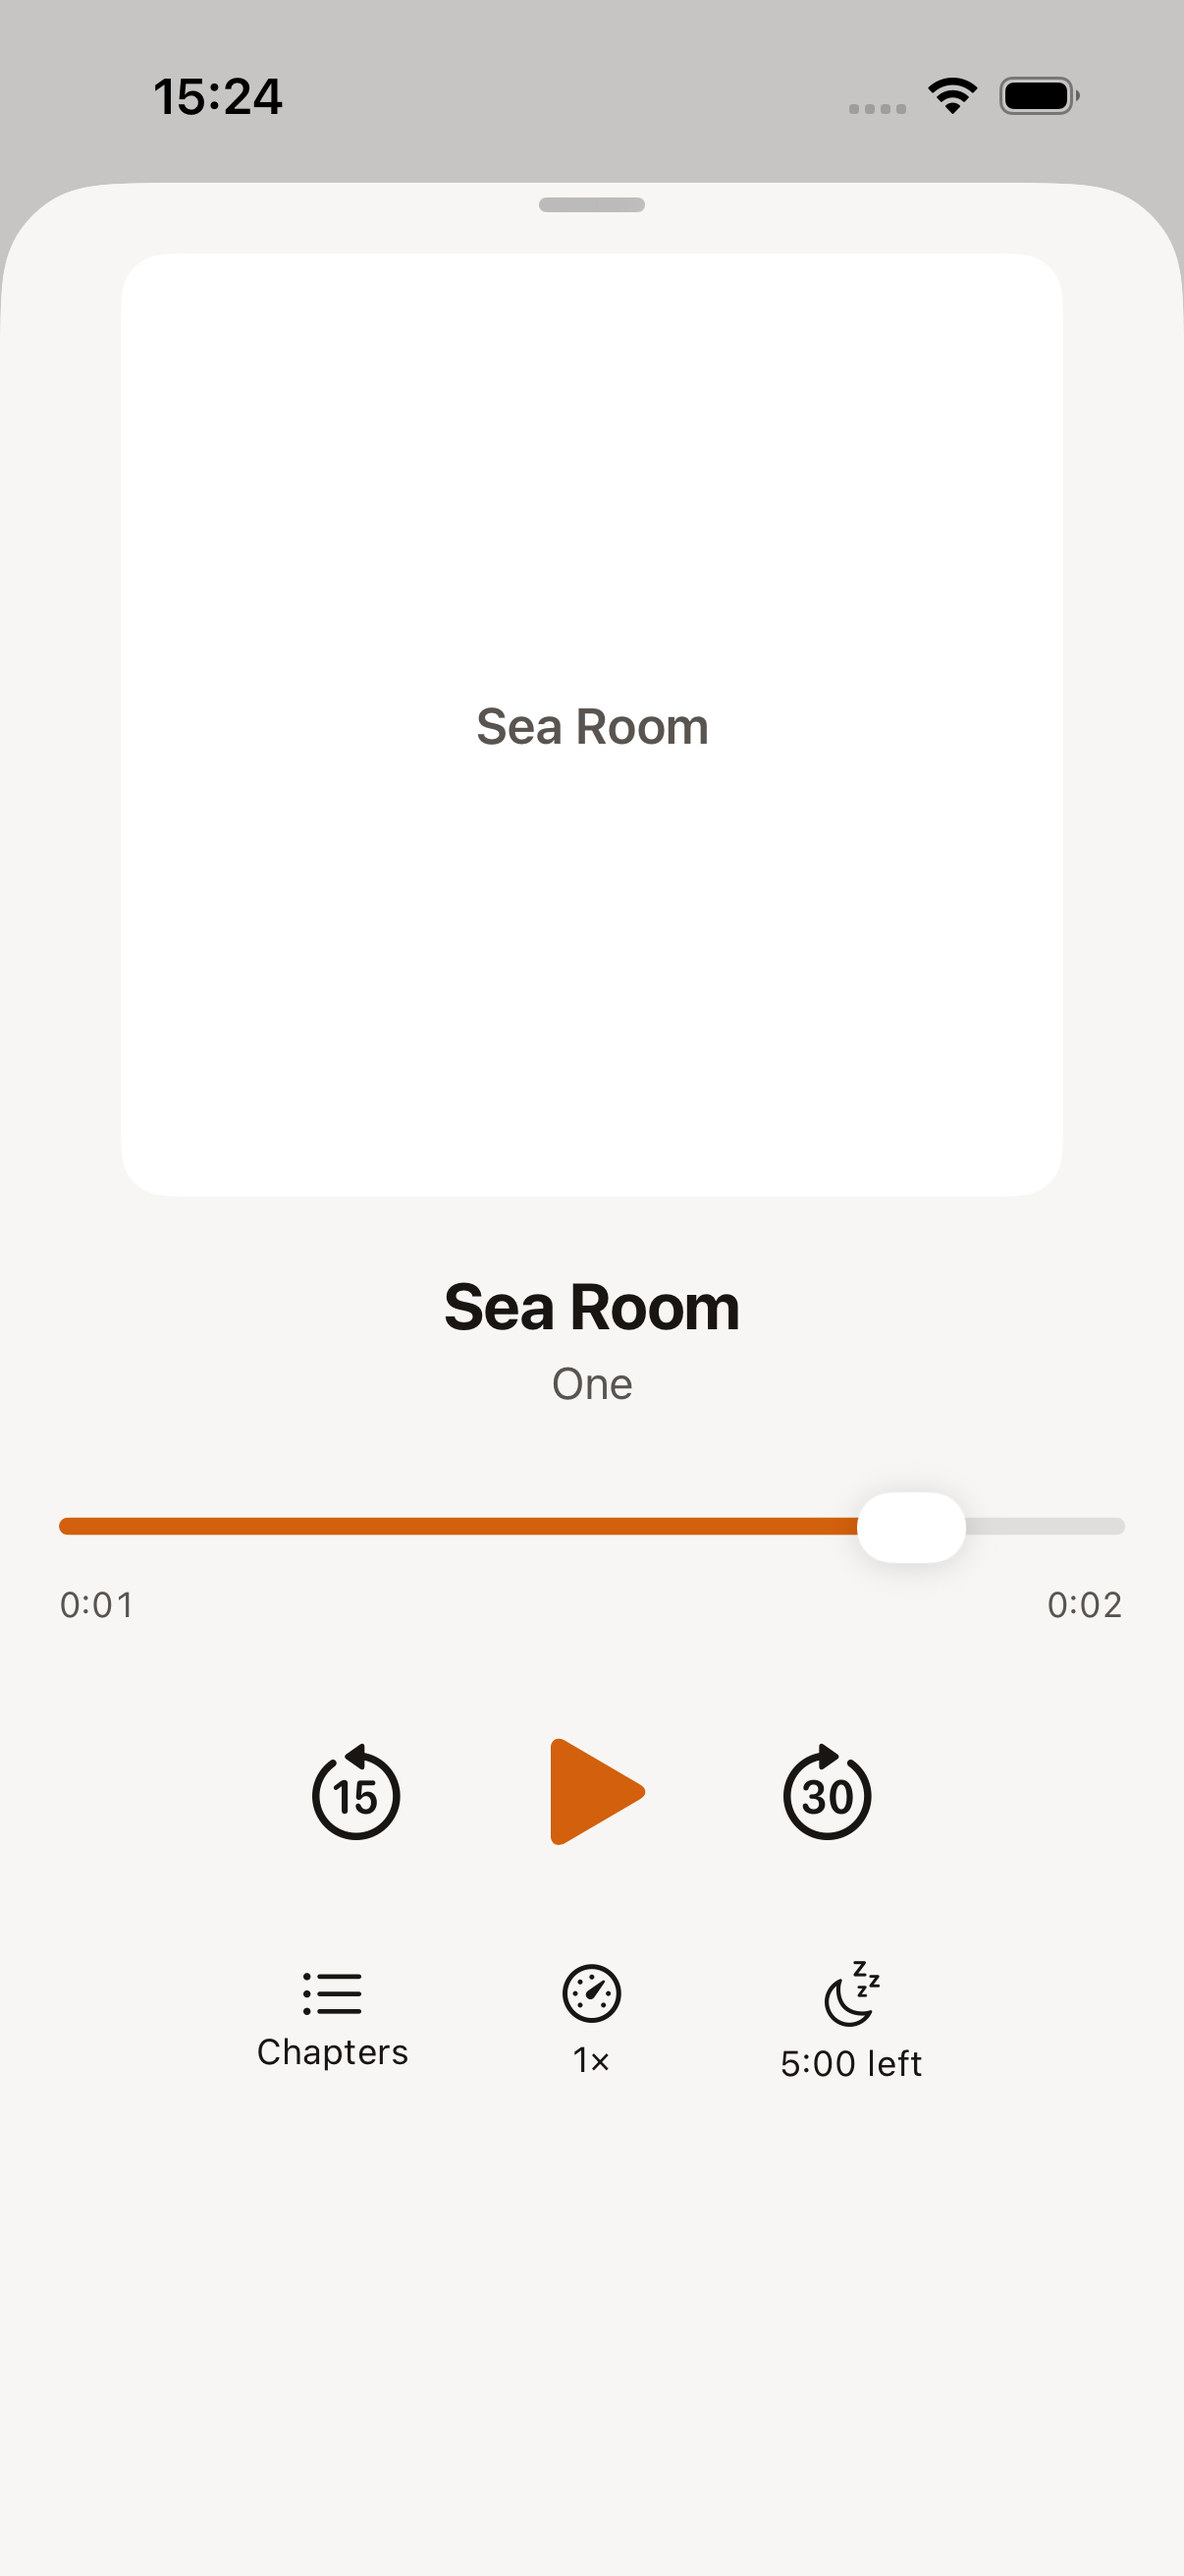
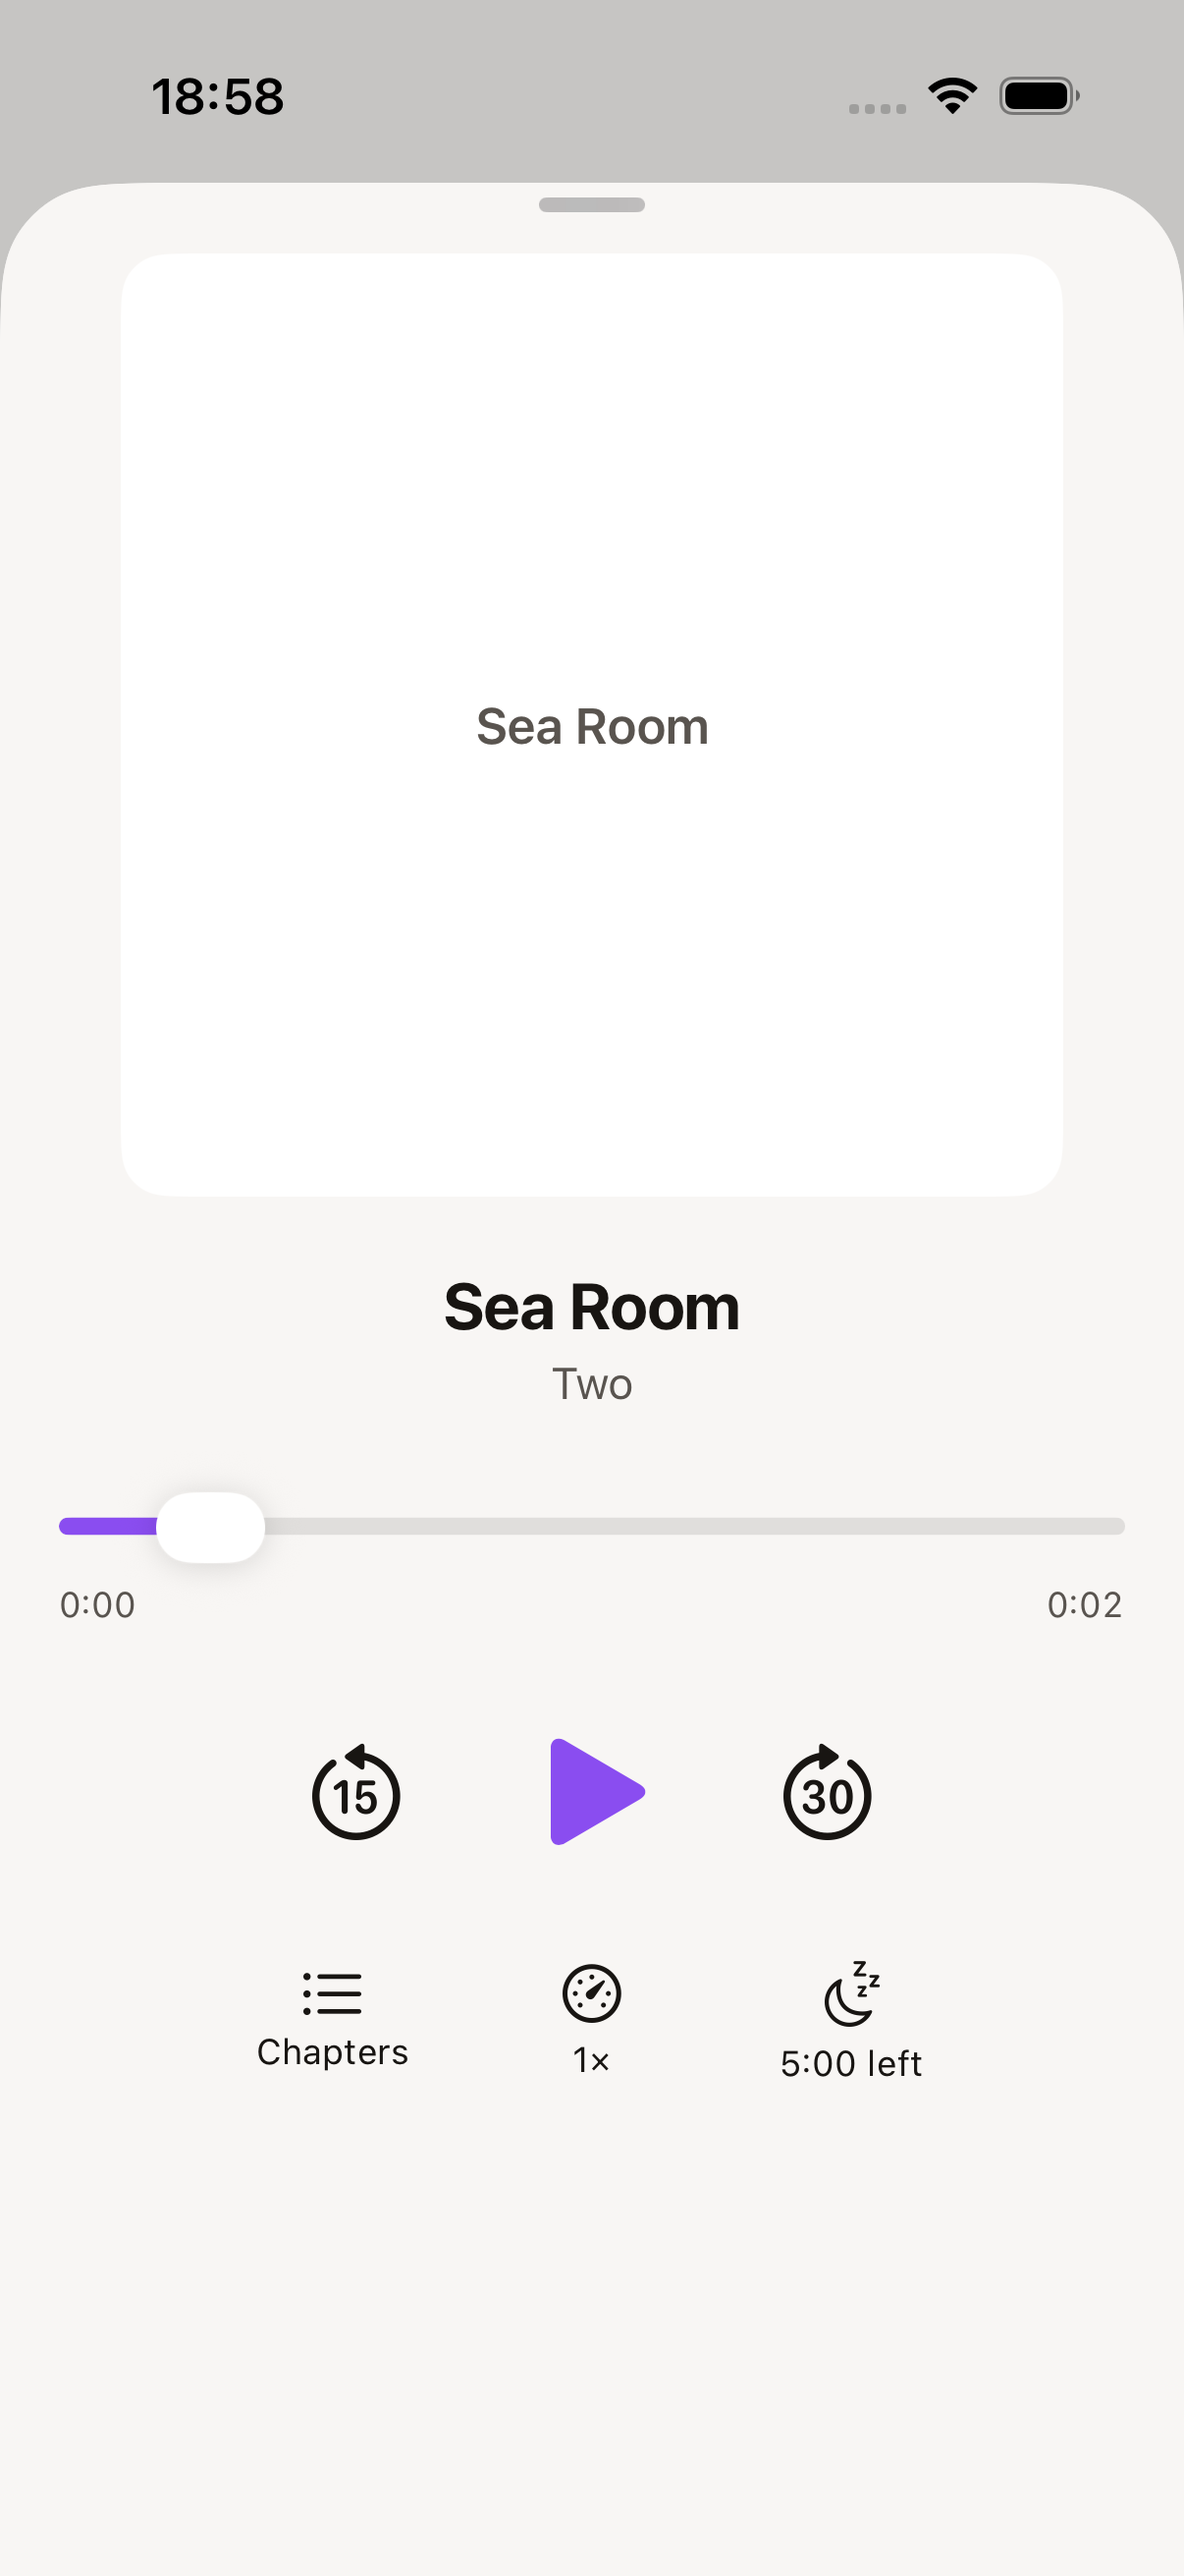
test(ios): the sleep timer is photographed counting down, not merely set
A single picture of `5:00 left` is exactly what the shipped-and-inert timer
would have produced: the control existed, the sheet offered the durations, and
nothing ever ticked the countdown. So one frame could not tell the fix from the
defect, and the capture README said so rather than claiming an exception.

`testCaptureSleepTimerSet` now takes both frames and asserts the move, so a
regression fails the build instead of waiting for somebody to compare two PNGs
by eye. It plays three seconds rather than waiting out a minute — the value is
m:ss and moves every second — and deliberately not to the end, because the
fixture is six seconds long and a finished session closes the player on purpose.

The assertion unwraps the value and checks its m:ss shape as well as the
difference. `XCTAssertNotEqual(nil, "5:00 left")` passes, so the naive form
would have been satisfied by a control that stopped announcing a value at all —
a worse defect reported as a pass. It also asserts the player is still on screen
after its own play button, which is the defect that blocked this pair for a day.

The README keeps the four measured runs that cost that day, because each is a
trap that will recur — in particular that `app.buttons["Play"].firstMatch` bound
to the compact bar *behind* the sheet, which is not hittable, so the book never
played and two frames came back byte-identical. Only a comparison assertion
caught it; a capture filed on the strength of the eye would have been filed as
[…]

diff --git a/apps/ios/UITests/PlayerScreenshotTests.swift b/apps/ios/UITests/PlayerScreenshotTests.swift
@@ -93,18 +93,22 @@ final class PlayerScreenshotTests: XCTestCase {
     /// while paused, the ramp, the elapsing and the rewind, with the paused hold and the ramp
     /// mutation-checked — and this picture only shows that the number reaches the surface.
     ///
-    /// **Why the second frame cannot be taken here yet, which is a defect and not a limit of the
-    /// capture.** The countdown moves only while the book plays, and the walk leaves the session
-    /// paused on purpose. Pressing any transport control inside the player **dismisses the player**:
-    /// `PlayerDock` hosts the player's `.sheet` on a view inside `if let bar = centre.compact`, so
-    /// the moment `CompactPlayer`'s value changes — which pressing play does, and crossing a chapter
-    /// does — the sheet's host is rebuilt and the presentation is torn down. Measured, not guessed:
-    /// a skip-back tap and a chapter-list tap each left the publication page on screen with the
-    /// compact bar still playing, and **the same run against the pre-§3.2 `FullPlayerView` failed
-    /// identically**, which is what proves the dismissal predates the Close pill's removal.
+    /// **The second frame took a defect to unblock, and the defect is why this comment is long.**
+    /// The countdown moves only while the book plays, and pressing any transport control inside the
+    /// player used to **dismiss the player**: `PlayerDock` hosted the `.sheet` on a view inside
+    /// `if let bar = centre.compact`, so the moment `CompactPlayer`'s value changed — which pressing
+    /// play does, and crossing a chapter does — the sheet's host was rebuilt and the presentation
+    /// torn down. Measured rather than guessed, and reproduced against the commit *before* the Close
+    /// pill was removed, so the pill was not the cause. Fixed by moving the presentation to the
+    /// shell's `TabView`; `PlayerSheet.swift` carries the account.
     ///
-    /// Two frames become possible as soon as that is fixed. Until then this states the gap rather
-    /// than claiming an exception.
+    /// So this now takes **two** frames, which is what the requirement actually asks for: a single
+    /// picture of `5:00 left` cannot tell a timer that is counting down from one that is frozen at
+    /// the value it was set to — which is precisely the shipped-and-inert state §5.3 existed to fix.
+    ///
+    /// It plays for a few seconds rather than waiting out a minute, because the announced value is
+    /// `m:ss` and moves every second. It must not play to the end: the audiobook fixture is six
+    /// seconds long, and a session that finishes closes the player on purpose.
     func testCaptureSleepTimerSet() throws {
         let app = launch()
         try openAnAudiobook(in: app)
@@ -140,6 +144,41 @@ final class PlayerScreenshotTests: XCTestCase {
             "The sleep control does not state the remaining time as its announced value."
         )
         attach(app.screenshot(), named: "sleep-timer-set")
+
+        // The second frame. Play, wait, and assert the announced value *moved* — the assertion
+        // is the proof and the picture is the evidence a person can look at.
+        let before = try XCTUnwrap(sleepControl.value as? String)
+        let play = app.buttons.matching(
+            NSPredicate(format: "label CONTAINS[c] %@ OR label CONTAINS[c] %@", "Play", "Pause")
+        ).allElementsBoundByIndex.first { $0.isHittable }
+        XCTAssertNotNil(play, "The player offers no play control. Buttons: \(app.buttons.allElementsBoundByIndex.map(\.label))")
+        play?.tap()
+        settle(3)
+
+        XCTAssertTrue(
+            app.buttons.matching(NSPredicate(format: "label BEGINSWITH %@", "Sleep timer")).firstMatch.exists,
+            "The player was dismissed by its own transport control — the defect this walk used to "
+                + "be blocked by. See PlayerSheet.swift."
+        )
+        // `after` is unwrapped rather than compared as an optional, and the shape is checked as
+        // well as the difference. `XCTAssertNotEqual(nil, "5:00 left")` passes, so a control that
+        // stopped announcing a value at all would have satisfied the naive form of this — which is
+        // a *worse* defect reported as a pass.
+        let after = try XCTUnwrap(
+            sleepControl.value as? String,
+            "The sleep control stopped announcing a value once the book was playing."
+        )
+        XCTAssertTrue(
+            after.range(of: #"^\d+:\d{2} left$"#, options: .regularExpression) != nil,
+            "The remaining time is announced as \(after), which is not an m:ss remaining time."
+        )
+        XCTAssertNotEqual(
+            after, before,
+            "The sleep timer's announced value did not move after three seconds of playback: still "
+                + "\(before). A control that states a number and never changes it is the "
+                + "shipped-and-inert state this walk exists to catch."
+        )
+        attach(app.screenshot(), named: "sleep-timer-counting")
     }
 
     /// Waits, then photographs.

diff --git a/docs/designs/screenshots/after-2026-09-01-ios-player-artwork/README.md b/docs/designs/screenshots/after-2026-09-01-ios-player-artwork/README.md
@@ -31,6 +31,7 @@ these three changes landed, and are committed. Read them as the pair for everyth
 | `ios-full-player.png` | The full player: the title as artwork, no Close pill, the grabber. |
 | `ios-full-player-largest-text.png` | The same at `AccessibilityXXXL`. |
 | `ios-sleep-timer-set.png` | A five-minute sleep timer just chosen. `5:00 left` on the control. |
+| `ios-sleep-timer-counting.png` | **The second frame**, after three seconds of playback. The value has moved. |
 
 ## What each pair settles
 
@@ -68,40 +69,52 @@ back on the shelf with the compact bar. The VoiceOver route is `.accessibilityAc
 and is not walked, because XCUITest has no API for the escape gesture — said here rather than
 left as a silent gap.
 
-### The sleep timer states a remaining time — `audiobooks-and-playback` §5.3
+### The sleep timer states a remaining time, and is seen to move — `audio-playback` §5.3
 
-`ios-sleep-timer-set.png` shows the control reading `5:00 left`, and the test asserts the same
-string as the control's announced **value** while *Sleep timer* remains its name. It announced
-only the number before, which is a value with no name, and `audio-playback` asks a screen
-reader for both.
+`ios-sleep-timer-set.png` shows the control reading `5:00 left`, and the test asserts that same
+string as the control's announced **value** while *Sleep timer* stays its name. It announced only
+the number before, which is a value with no name, and `audio-playback` asks a screen reader for
+both.
 
-**This is one frame, and the requirement wants two — said plainly rather than dressed up as an
-exception.** The defect §5.3 fixed was a number that *was* displayed and never moved, so a
-single picture of `5:00 left` cannot tell the fix from the bug. What proves the moving is
-`SleepTimerRunningTests`: the count going down, the hold while paused, the ramp reaching the
-source's volume, the elapsing, and the rewind — with the paused hold, the ramp shape and the
-end-of-chapter re-read each mutation-checked.
+**Two frames, because one cannot tell the fix from the defect it replaced.** The defect §5.3
+fixed was a number that *was* displayed and never moved — the control existed, the sheet offered
+the durations, and nothing in the app ever ticked the countdown or stopped the book. A single
+picture of `5:00 left` is exactly what that would have produced. So `ios-sleep-timer-counting.png`
+is the pair, taken after three seconds of playback, and the walk **asserts** the value moved as
+well as photographing it: a regression fails the build rather than waiting for somebody to
+compare two PNGs by eye.
 
-**Why the second frame could not be taken, which turned out to be a defect rather than a limit
-of the capture.** The countdown moves only while the book plays, and the walk leaves the session
-paused on purpose. Pressing any transport control inside the player **dismisses the player**:
-`PlayerDock` hosts the player's `.sheet` on a view inside `if let bar = centre.compact`, so the
-moment `CompactPlayer`'s value changes — which pressing play does, and which crossing a chapter
-does — the sheet's host is rebuilt and the presentation is torn down.
+The assertion unwraps the value rather than comparing optionals, and checks its `m:ss` shape as
+well as the difference. `XCTAssertNotEqual(nil, "5:00 left")` passes, so a control that stopped
+announcing a value at all would have satisfied the naive form — a worse defect, reported as a
+pass.
 
-Measured rather than guessed, over four runs:
+The walk plays for three seconds rather than waiting out a minute, since the value moves every
+second, and deliberately does not play to the end: the audiobook fixture is six seconds long and
+a finished session closes the player on purpose.
+
+#### This pair was owed for a day, and what blocked it was a real defect
+
+Kept because the measurements cost four runs and each one is a trap that will recur.
+
+The countdown moves only while the book plays, and pressing any transport control inside the
+player **dismissed the player**: `PlayerDock` hosted the `.sheet` on a view inside
+`if let bar = centre.compact`, so the moment `CompactPlayer`'s value changed — which pressing
+play does, and which crossing a chapter does — the sheet's host was rebuilt and the presentation
+torn down.
 
 1. `app.buttons["Play"].firstMatch` bound to the **compact bar behind the sheet**, which is not
    hittable, so the book never played and two frames came back byte-identical at `5:00 left`.
-   Only a comparison assertion caught that; a capture filed on the strength of the eye would
-   have been filed as proof.
+   Only a comparison assertion caught that; a capture filed on the strength of the eye would have
+   been filed as proof. **The walk now picks the first *hittable* match**, which is why.
 2. Reaching the first chapter through the chapter list fixed the starting position and exposed
    the dismissal: tapping a chapter row left the **publication page** on screen with the compact
    bar still playing.
 3. A skip-back tap — one control, no sheet — did exactly the same.
 4. **The same run against the pre-§3.2 `FullPlayerView`, Close pill and all, failed
-   identically.** That is what proves the dismissal predates this change rather than being
-   caused by it.
+   identically.** That is what proves the dismissal predated the pill's removal.
 
-Two frames become possible as soon as that host is stabilised. It is out of this change's scope
-and is reported as a separate defect.
+Fixed by moving the presentation to the shell's `TabView`, which outlives a session;
+`PlayerSheet.swift` carries the account. The assertion that the player survives its own play
+button is part of this same walk now, so the block cannot come back unnoticed.
+
